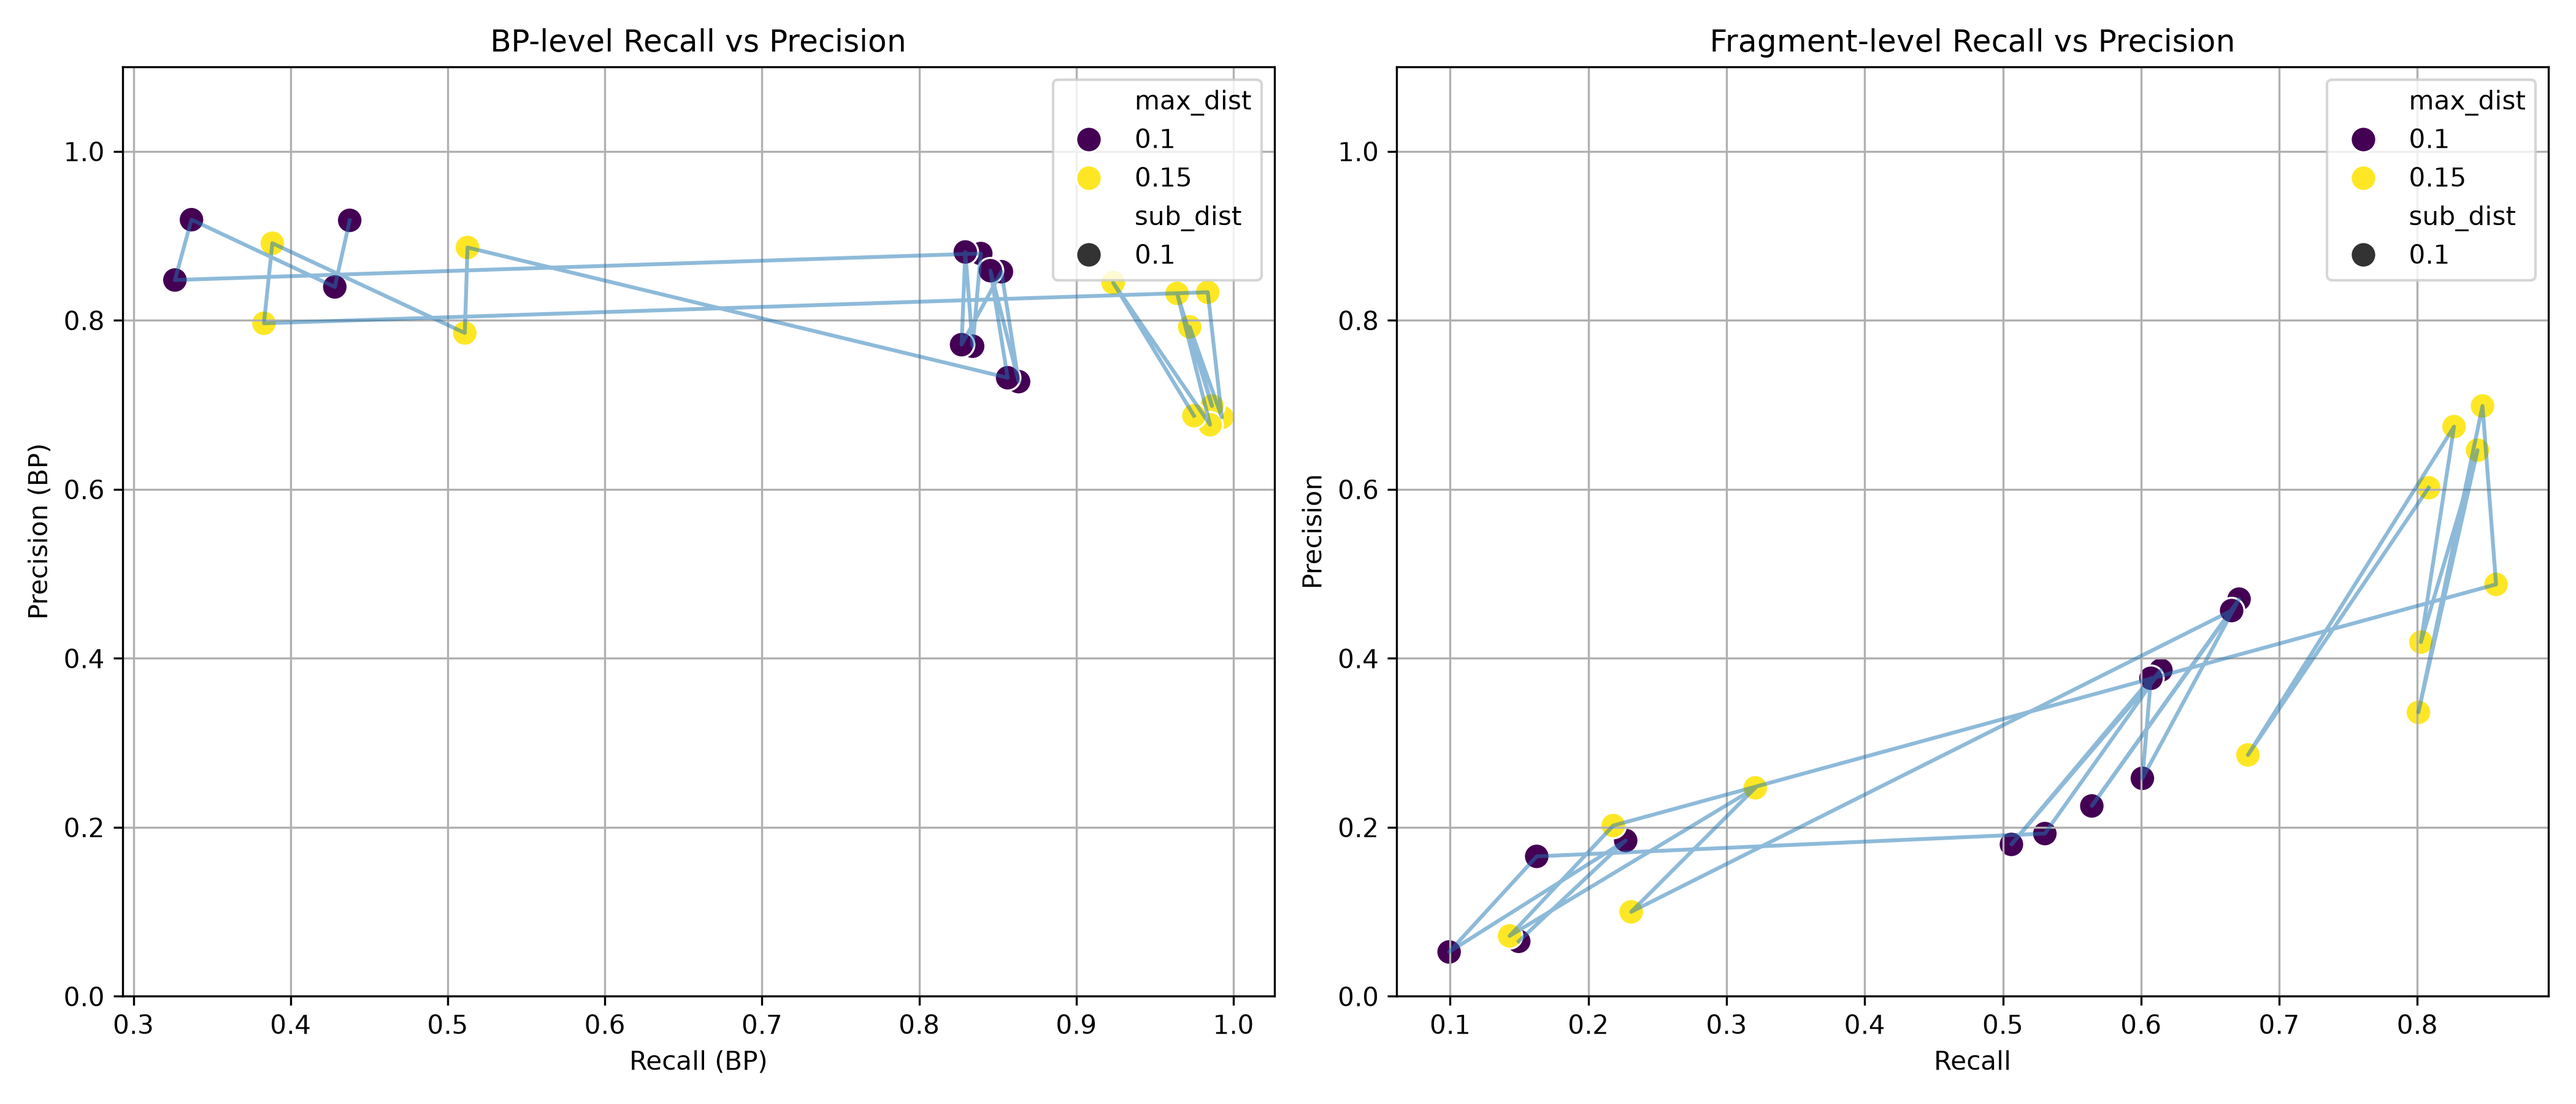
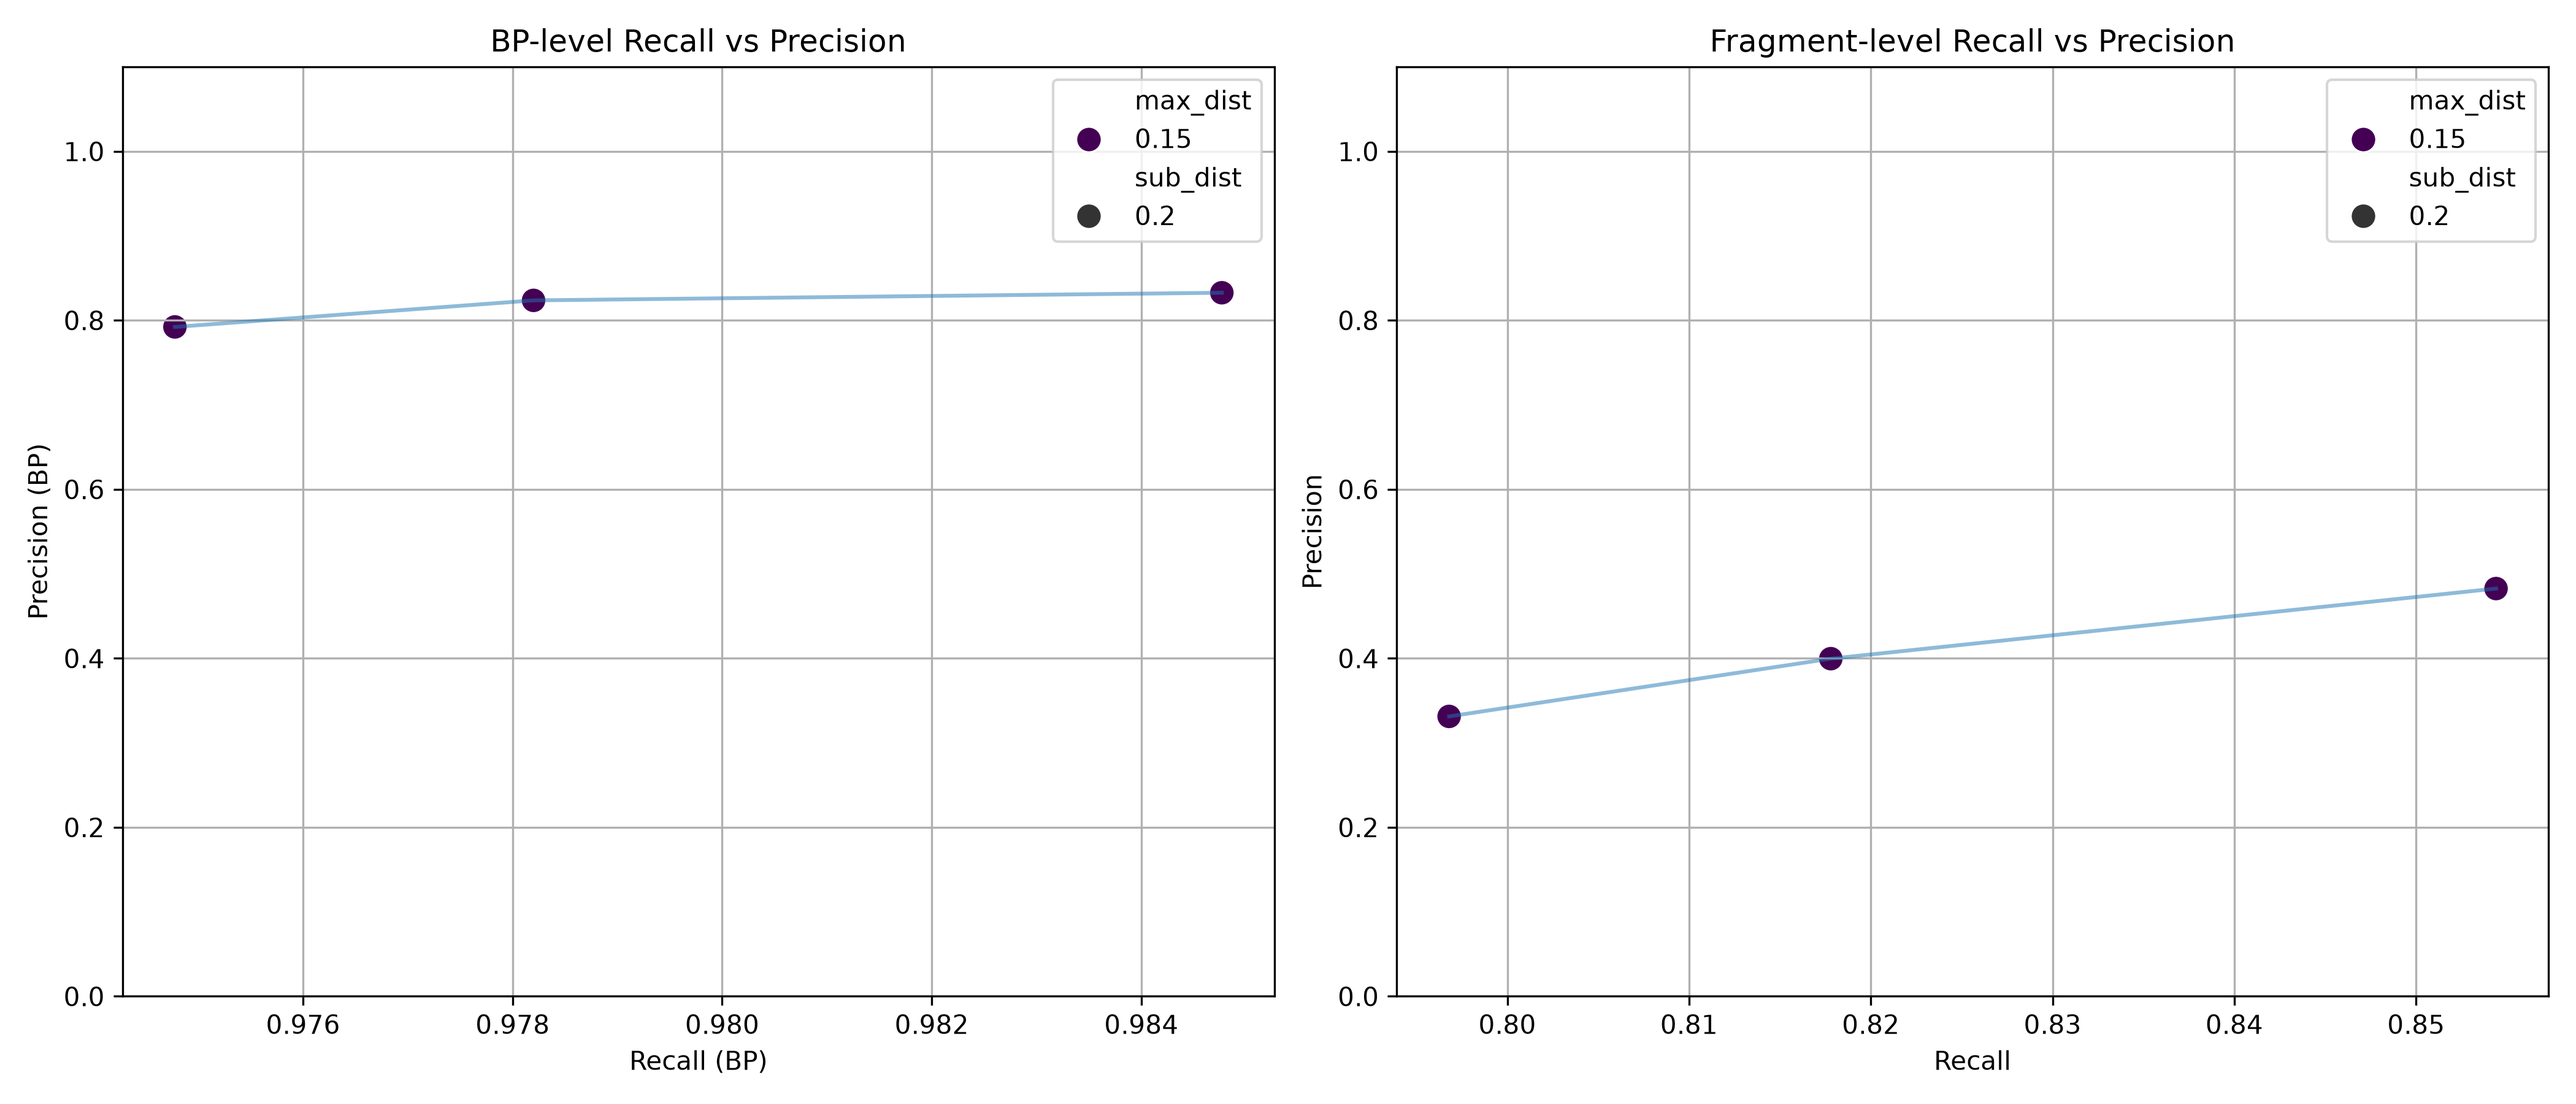
changed default values

diff --git a/evaluate.py b/evaluate.py
@@ -378,12 +378,12 @@ if __name__ == "__main__":
     print("Saved true.bedpe\n")
 
     # Only evaluate a few parameters to save time for 3Gb genome
-    d_values = [0.10, 0.15]
-    D_values = [0.1]
-    f_values = [0.1]
-    k_values = [15, 21, 31]
-    s_values = [10, 20]
-    w_values = [1000, 2000]
+    d_values = [0.15]
+    D_values = [0.2]
+    f_values = [0.3]
+    k_values = [21]
+    s_values = [10, 15, 20]
+    w_values = [1000]
     
     print(f"{'sub_dist(-D)':>12} | {'max_dist(-d)':>12} | {'flank_ratio(-f)':>15} | {'kmer(-k)':>8} | {'scale(-s)':>9} | {'window(-w)':>10} | {'BP Sn':>8} | {'BP Pr':>8} | {'BP F1':>8} | {'Frag Sn':>8} | {'Frag Pr':>8} | {'Frag F1':>8} | {'Time(s)':>8}")
     print("-" * 165)

diff --git a/plantsds.c b/plantsds.c
@@ -51,9 +51,9 @@ int main(int argc, char **argv) {
   // ==============================================================
 
   uint32_t def_kmer_size = 21;
-  uint64_t def_scale = 20;
+  uint64_t def_scale = 16;
   uint64_t def_hash_seed = 42;
-  size_t window_size = 1000;
+  size_t window_size = 1024;
   size_t step_size = 0; /* 0 = auto (window/2) */
   size_t min_bases = 1000;
   double max_dist = 0.15;
